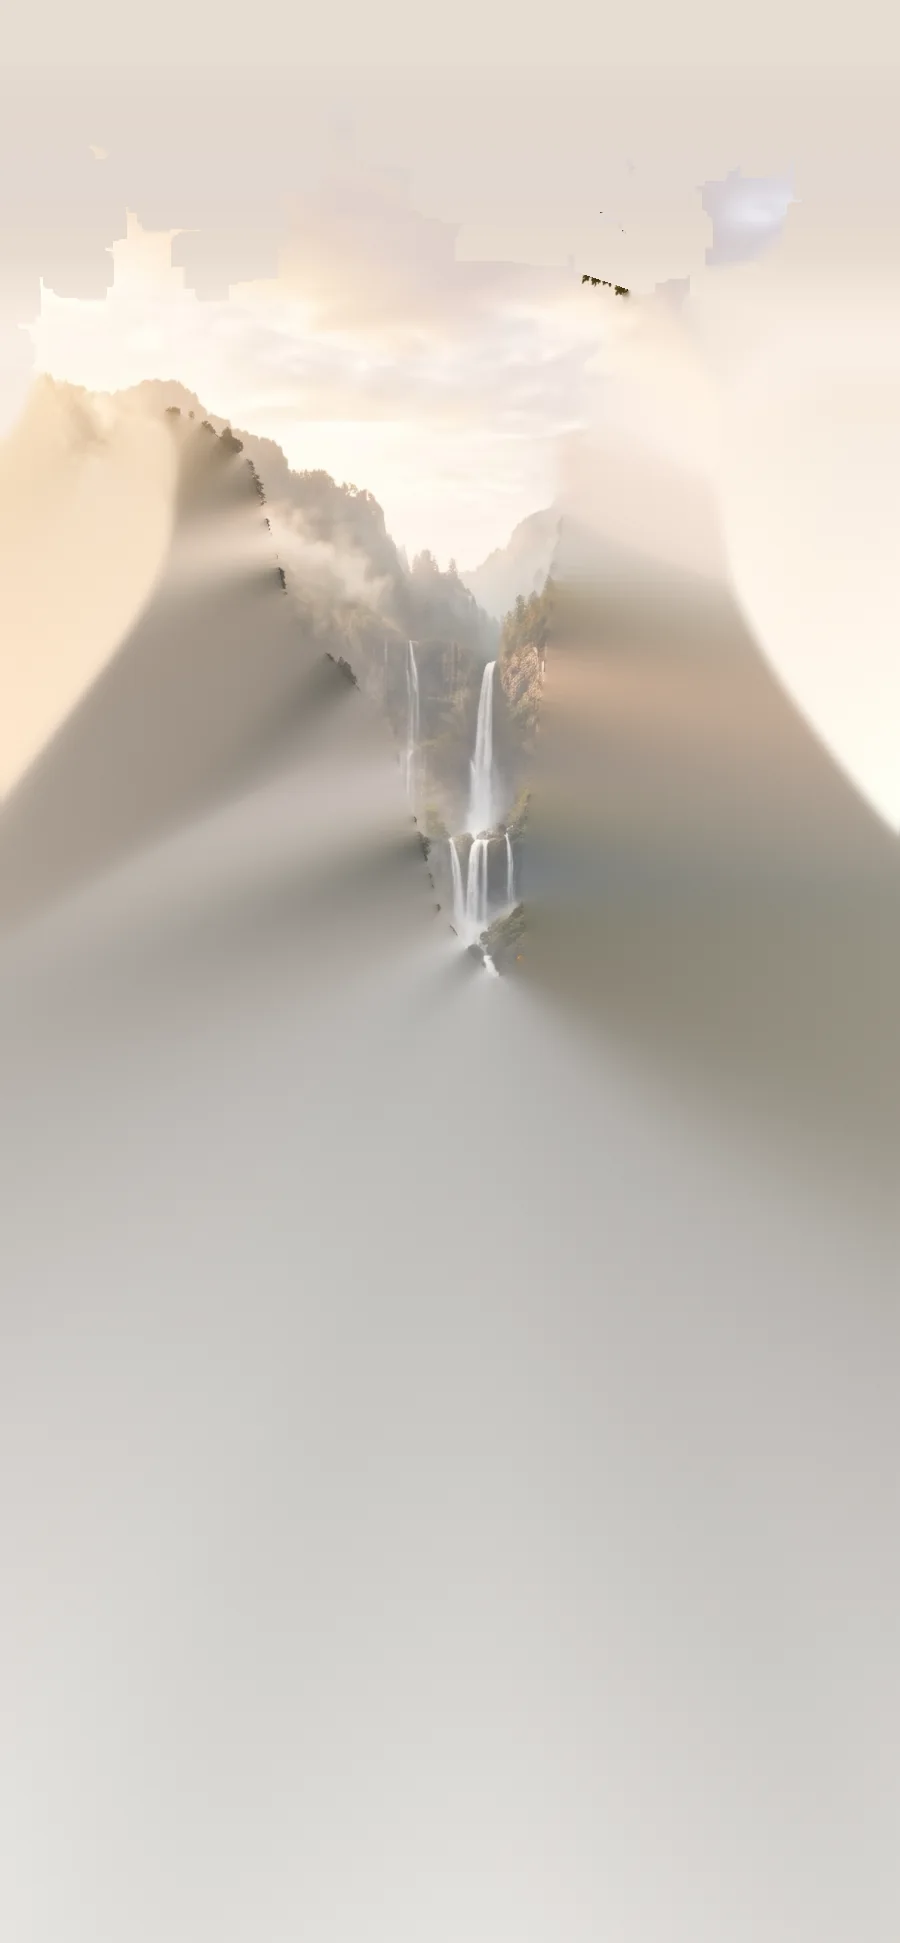
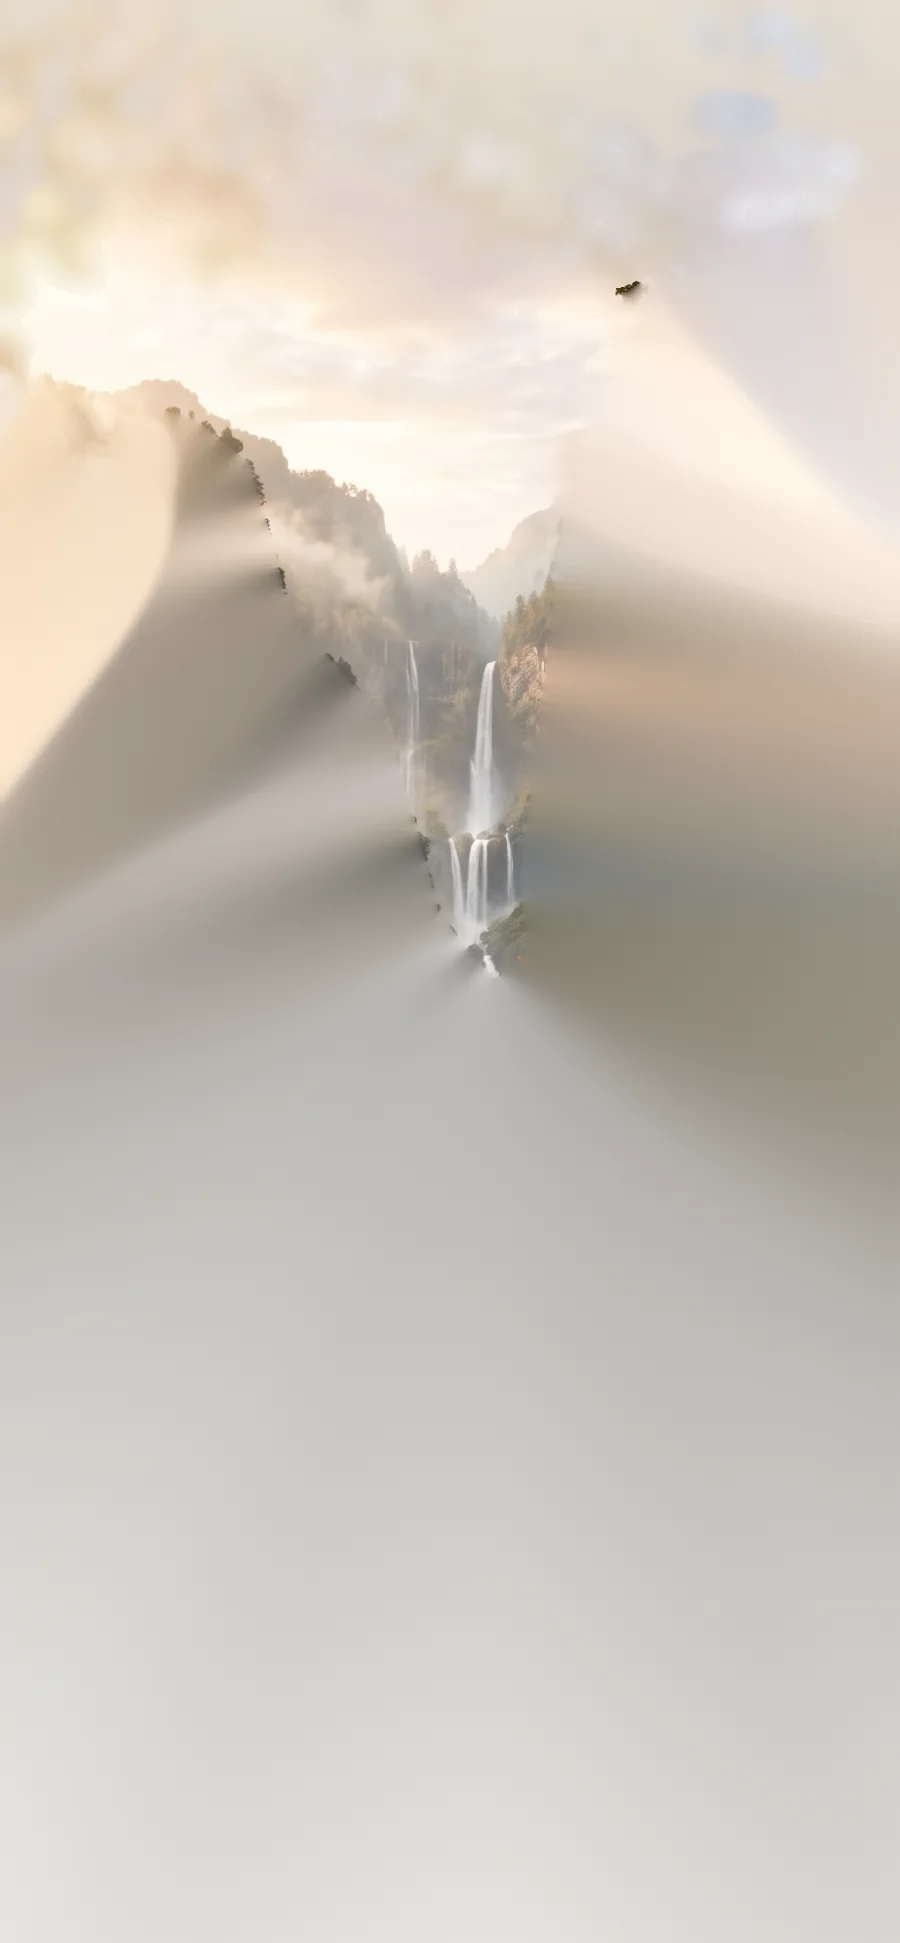
Title: cut the branches overhead cleanly, without a halo
The canopy layer carried a fringe of the picture's bright sky around its
leaves, which glowed against the shaded sky behind. Cut the branches
with a soft matte instead (opacity from how far each pixel is from the
sky just behind it), take the sky's color back out of the edge pixels,
fill the sky behind them from the local sky, and keep the outline off
the right cliff and around the hanging leaf tips.

Claude-Session: https://claude.ai/code/session_019NT2n8a8ARc3nHPut4Qt5x

diff --git a/sw.js b/sw.js
@@ -3,7 +3,7 @@
  * cache and refreshed in the background (so a new version shows on the next
  * visit); card images from Scryfall's CDN and fonts are cached once and kept.
  */
-const VERSION = 'istari-v11';
+const VERSION = 'istari-v12';
 const SHELL = [
   './', 'index.html', 'app/app.css', 'app/main.js', 'manifest.webmanifest', 'app/icons/icon.svg',
   'app/vendor/symbols.css', 'app/vendor/mana.woff2', 'app/vendor/keyrune.woff2',

diff --git a/tools/title/make-layers.py b/tools/title/make-layers.py
@@ -36,7 +36,7 @@ REGIONS = {
     ],
     # The tree overhead.
     'canopy': [
-        [(0, 0), (474, 0), (474, 240), (452, 236), (436, 200), (420, 166), (380, 152), (342, 150), (300, 136), (250, 132), (200, 138), (150, 150), (100, 156), (50, 162), (20, 180), (0, 200)],
+        [(0, 0), (474, 0), (474, 112), (446, 116), (420, 124), (380, 134), (345, 140), (322, 150), (302, 176), (278, 186), (246, 170), (222, 146), (200, 140), (150, 150), (100, 156), (50, 162), (20, 180), (0, 200)],
     ],
 }
 ORDER = ['back', 'cliffs', 'valley', 'near', 'canopy']
@@ -51,6 +51,37 @@ def polygon_mask(shape, polys, k):
     for poly in polys:
         cv2.fillPoly(mask, [np.round(np.array(poly, np.float64) * k).astype(np.int32)], 255)
     return mask
+
+
+def canopy_matte(img, sky, sky_rows, region, px):
+    """
+    The branches overhead, cut soft from the sky: each pixel's opacity from how far its color is from
+    the sky's just behind it, and the sky's color taken back out of the half-covered edge pixels, so
+    no fringe of bright sky comes along with the leaves (it would glow against the darker sky
+    behind them). Returns (BGR, alpha, the sky behind as BGR, what isn't sky in its region).
+    """
+    c = img.astype(np.float32)
+    # Open sky for this, more loosely: by the sun it's warmer and less pale than elsewhere.
+    hsv = cv2.cvtColor(img, cv2.COLOR_BGR2HSV)
+    sky = sky | ((hsv[..., 2] > 180) & (hsv[..., 1] < 95))
+    # The sky just behind each pixel: an average of the open sky nearby, or the row's sky where there's none.
+    weight = cv2.GaussianBlur(sky.astype(np.float32), (0, 0), px(6))
+    near = cv2.GaussianBlur(c * sky[..., None], (0, 0), px(6)) / np.maximum(weight, 1e-3)[..., None]
+    trust = np.clip(weight * 4, 0, 1)[..., None]
+    behind = near * trust + sky_rows.astype(np.float32) * (1 - trust)
+    distance = np.linalg.norm(c - behind, axis=2)
+    alpha = np.clip((distance - 14) / 46, 0, 1) * (region > 0)
+    covered = ((alpha > 0) * 255).astype(np.uint8)
+    # Lone specks (a smudge of cloud, a bird) aren't branches.
+    count, labels, stats, _ = cv2.connectedComponentsWithStats((alpha > 0.5).astype(np.uint8))
+    small = stats[:, cv2.CC_STAT_AREA] < px(5) ** 2
+    small[0] = False
+    alpha[small[labels] & (alpha > 0)] = 0
+    # Unmix: color = a * leaf + (1 - a) * sky, so leaf = sky + (color - sky) / a.
+    leaf = behind + (c - behind) / np.maximum(alpha, 0.08)[..., None]
+    rgb = np.clip(leaf, 0, 255).astype(np.uint8)
+    alpha = cv2.GaussianBlur((alpha * 255).astype(np.uint8), (0, 0), 0.6)
+    return rgb, alpha, np.clip(behind, 0, 255).astype(np.uint8), covered
 
 
 def main():
@@ -82,6 +113,8 @@ def main():
         rows[:, c] = np.interp(ys, ys[known], rows[known, c])
     rows = cv2.GaussianBlur(rows.reshape(h, 1, 3).astype(np.float32), (1, 0), sigmaX=1, sigmaY=12 * k).reshape(h, 3)
     sky_rows = np.repeat(rows[:, None, :], w, axis=1).astype(np.uint8)
+    canopy_rgb, canopy_alpha, canopy_sky, canopy_covered = canopy_matte(img, sky, sky_rows, polygon_mask((h, w), REGIONS['canopy'], k), px)
+    masks['canopy'] = np.where(canopy_alpha > 128, 255, 0).astype(np.uint8)
     # A nearer layer wins where regions overlap.
     for i, name in enumerate(ORDER[1:], 1):
         for nearer in ORDER[i + 1:]:
@@ -97,13 +130,15 @@ def main():
         base = img
         if name == 'back':
             # Behind the canopy is sky: paint it with the sky's own colors, row by row, before inpainting the rest.
-            under = cv2.dilate(masks['canopy'], np.ones((px(9), px(9)), np.uint8)) > 0
+            under = cv2.dilate(masks['canopy'] | canopy_covered, np.ones((px(5), px(5)), np.uint8)) > 0
             base = img.copy()
-            base[under] = sky_rows[under]
+            base[under] = canopy_sky[under]
             fill[under] = 0
         content = cv2.inpaint(base, fill, px(9), cv2.INPAINT_TELEA) if fill.any() else base
         if name == 'back':
             alpha = np.full((h, w), 255, np.uint8)
+        elif name == 'canopy':
+            content, alpha = canopy_rgb, canopy_alpha
         else:
             # Its own region, plus a margin carried on under the layers in front.
             alpha = masks[name] | (cv2.dilate(masks[name], kernel) & in_front)
